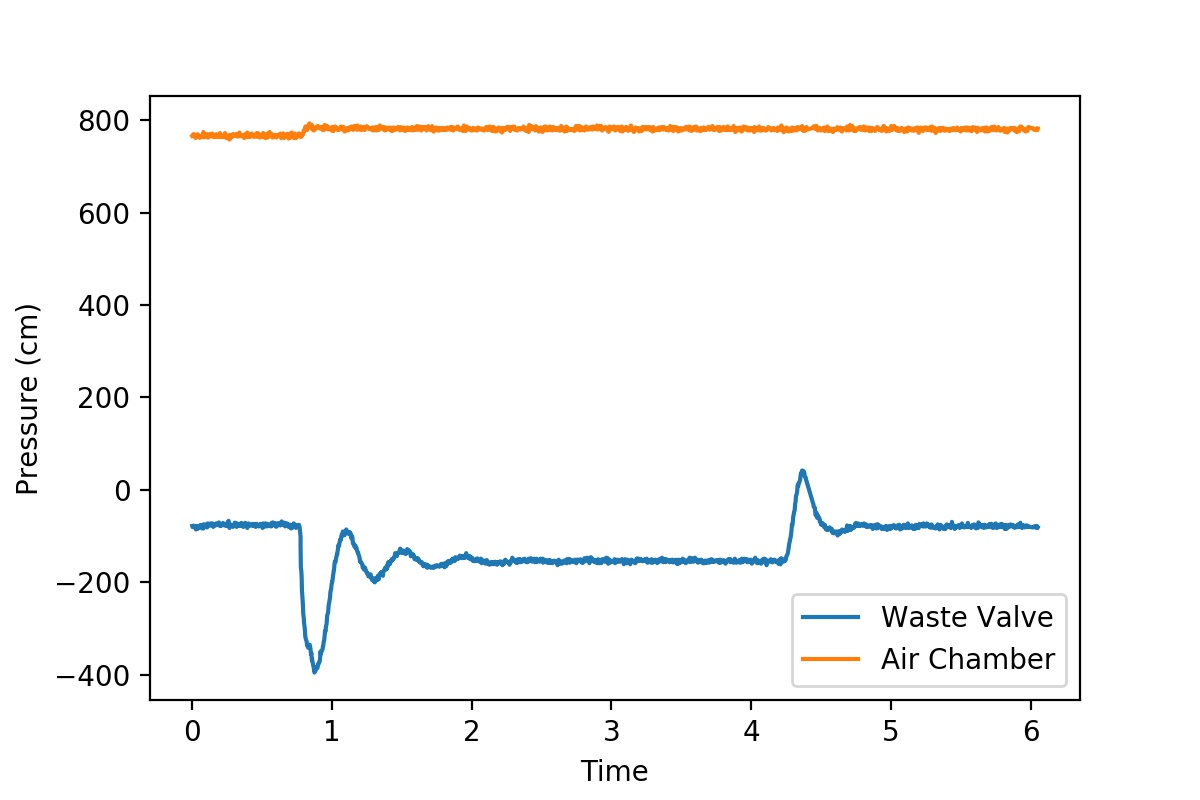
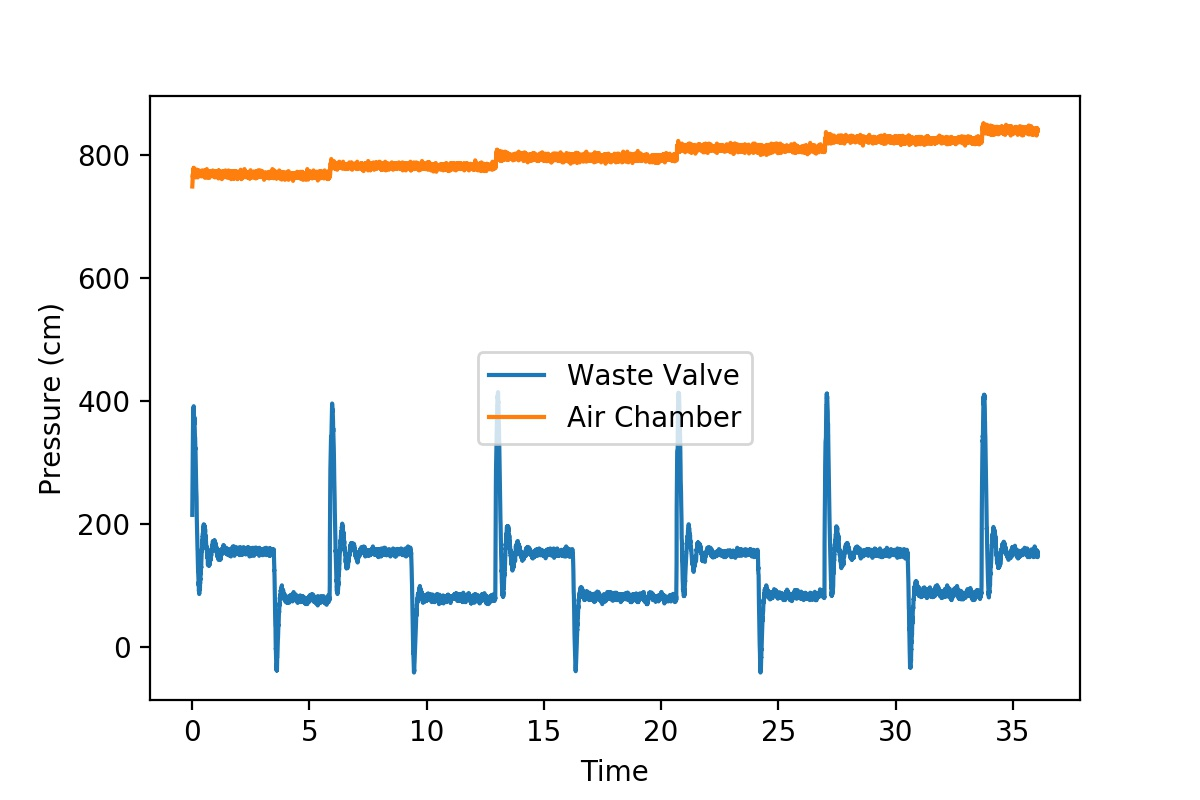
graph edits

diff --git a/Spring 2019/Spring2019RamPump.md b/Spring 2019/Spring2019RamPump.md
@@ -219,13 +219,15 @@ The following Python code graphs the pressure data to obtain the graphs below (F
 import aguaclara.research.procoda_parser as pp
 import matplotlib.pyplot as plt
 import numpy as np
+
+
 url = 'https://raw.githubusercontent.com/AguaClara/ram_pump/master/Spring%202019/3-7-19_manual_operationwith650Pi.xls'
 pp.notes(url)
 start = 40683 #should be more than 'start'
 end = 62529 #should be less than 'stop'
 
 x = (pp.ftime(url,start,end)).to(u.s)
-pressure = pp.column_of_data(url, start, 1, end, 'cm')
+pressure = -pp.column_of_data(url, start, 1, end, 'cm')
 airchamber = pp.column_of_data(url, start, 2, end, 'cm')
 
 plt.clf()
@@ -253,7 +255,7 @@ start = 4454 #should be more than 'start'
 end = 22416 #should be less than 'stop'
 
 x = (pp.ftime(url,start,end)).to(u.s)
-pressure = pp.column_of_data(url, start, 1, end, 'cm')
+pressure = -pp.column_of_data(url, start, 1, end, 'cm')
 airchamber = pp.column_of_data(url, start, 2, end, 'cm')
 
 plt.clf()
@@ -285,7 +287,7 @@ start = 7000 #should be more than 'start'
 end = 10000 #should be less than 'stop'
 
 x = (pp.ftime(url,start,end)).to(u.s)
-pressure = pp.column_of_data(url, start, 1, end, 'cm')
+pressure = -pp.column_of_data(url, start, 1, end, 'cm')
 airchamber = pp.column_of_data(url, start, 2, end, 'cm')
 
 plt.clf()
